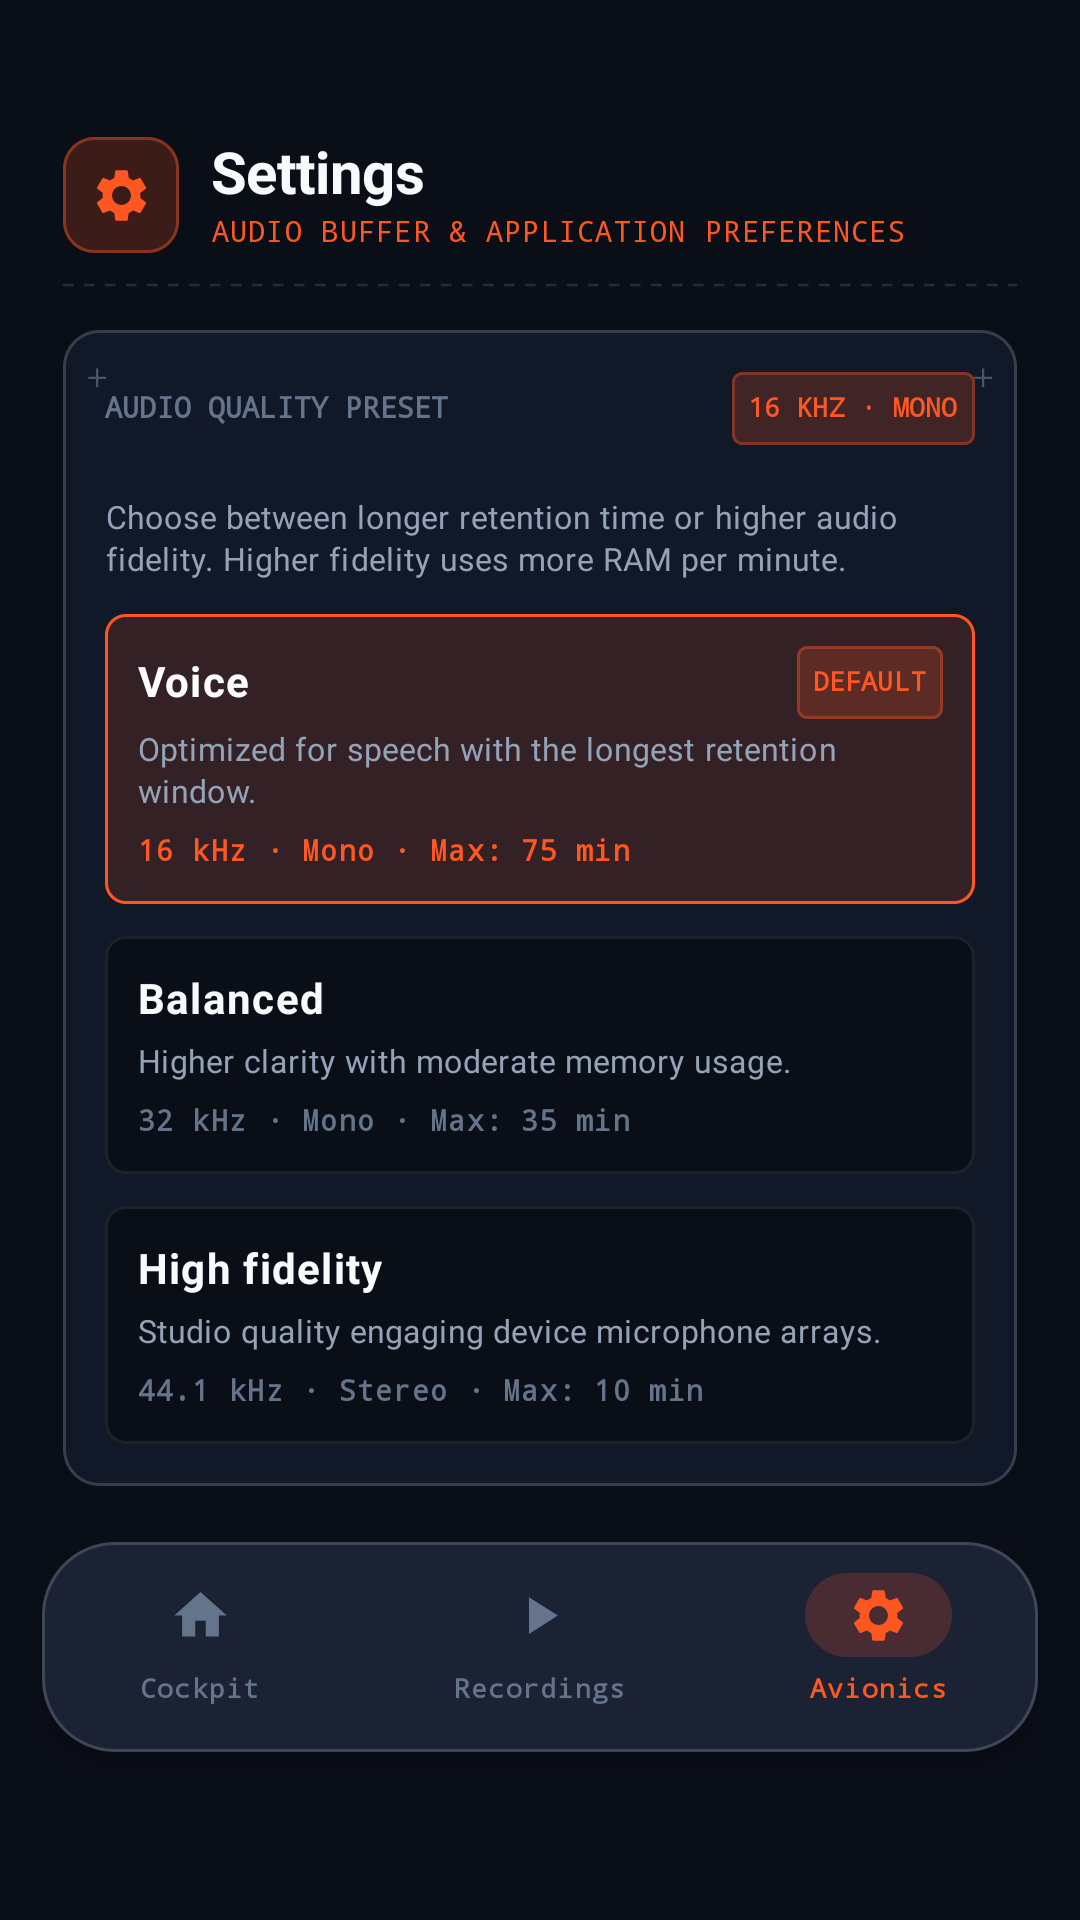
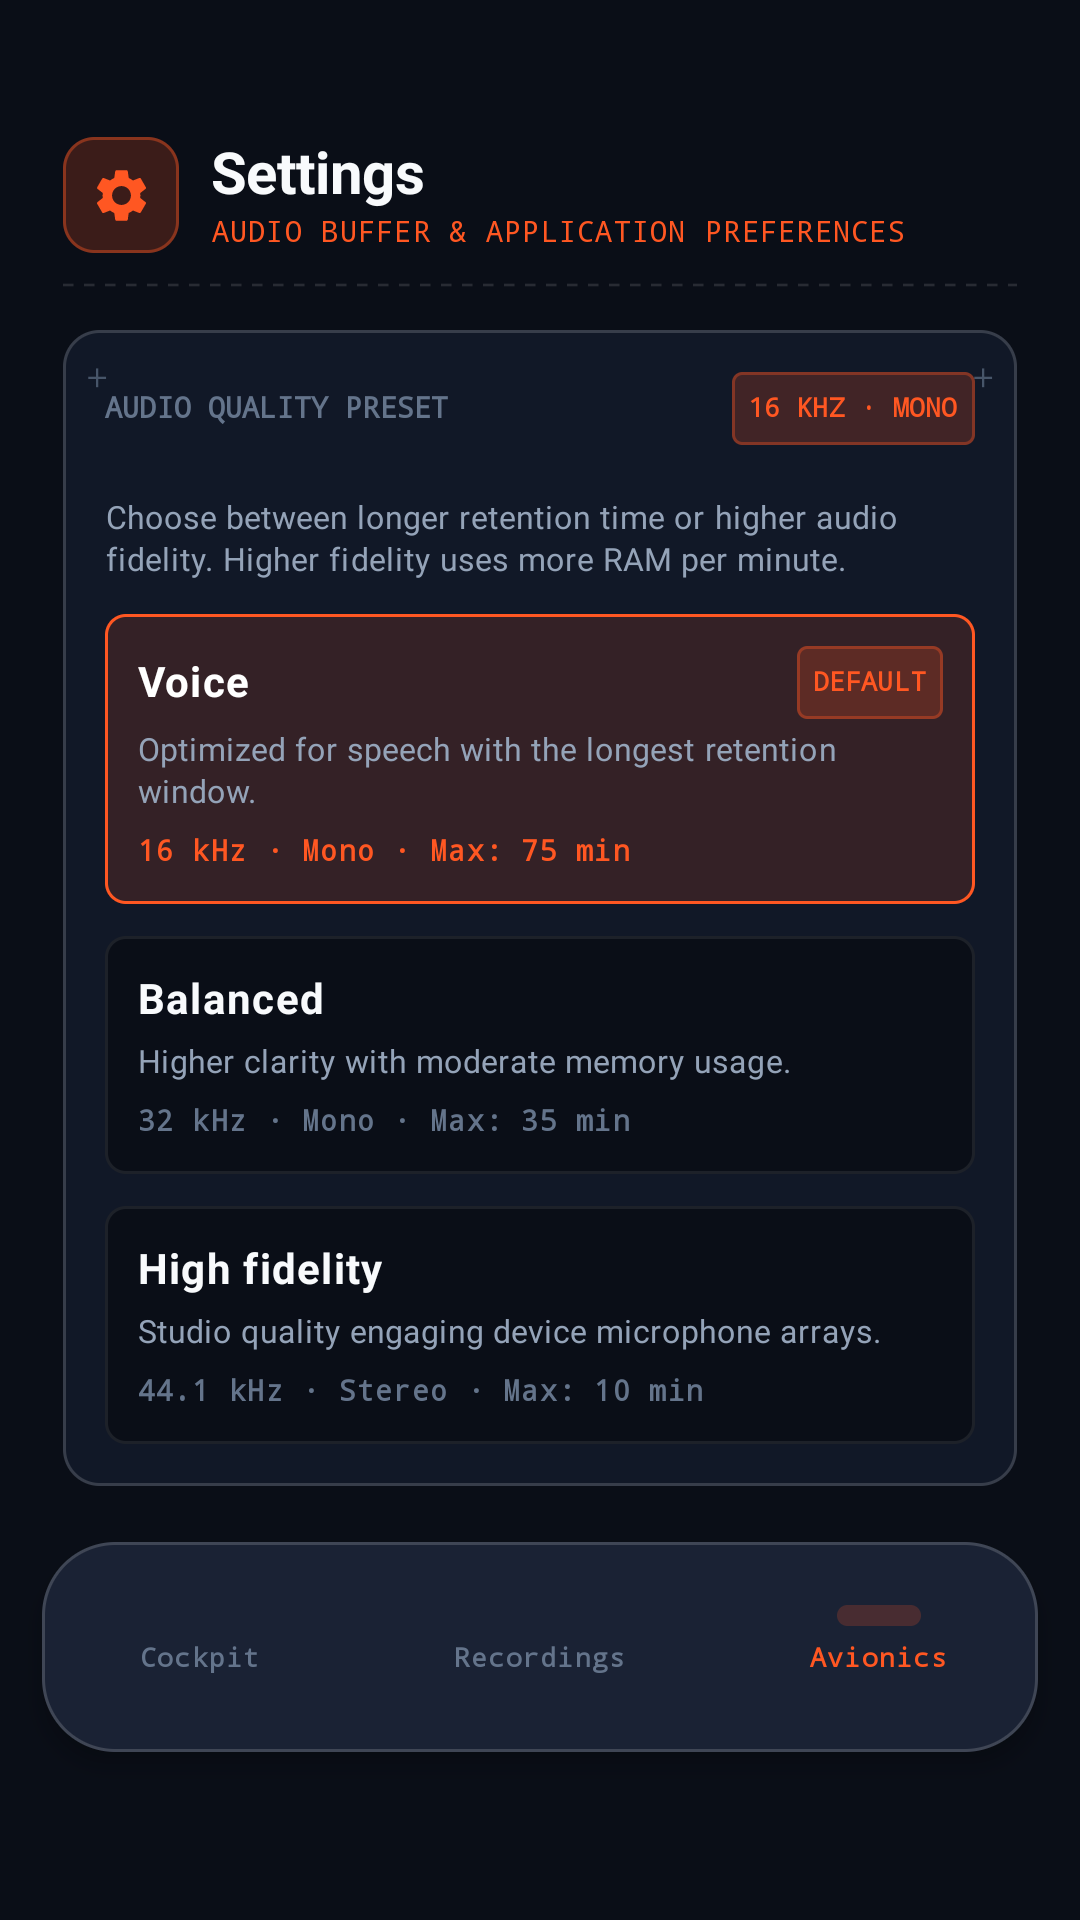
fix(ui): apply layout and design improvements (#356)
* fix(ui): apply layout and design improvements (fixes #353, #354, #355)

- Remove extra icon from telemetry card title and display device model in tag.
- Fix layout overflow in privacy card.
- Remove undocumented icons from main navigation tabs.

* chore(ci): refresh screenshots from capture run 34229181536

* Fix UI improvements review findings

* chore(ci): refresh screenshots from capture run 34233016166

* UI: use AvionicsTag's ellipsis instead of manual string truncation for device model

---------

Changed region(s): [[0.7333, 0.8125, 0.8861, 0.9062], [0.4278, 0.8125, 0.5806, 0.9062], [0.1528, 0.8125, 0.2139, 0.9062]]

diff --git a/app/src/main/java/cc/machado/audioblackbox/ui/BottomBar.kt b/app/src/main/java/cc/machado/audioblackbox/ui/BottomBar.kt
@@ -3,11 +3,6 @@ package cc.machado.audioblackbox.ui
 import androidx.compose.foundation.BorderStroke
 import androidx.compose.foundation.layout.WindowInsets
 import androidx.compose.foundation.shape.RoundedCornerShape
-import androidx.compose.material.icons.Icons
-import androidx.compose.material.icons.filled.Home
-import androidx.compose.material.icons.filled.PlayArrow
-import androidx.compose.material.icons.filled.Settings
-import androidx.compose.material3.Icon
 import androidx.compose.material3.MaterialTheme
 import androidx.compose.material3.NavigationBar
 import androidx.compose.material3.NavigationBarItem
@@ -105,7 +100,7 @@ fun FloatingBottomBar(
             NavigationBarItem(
                 selected = selected == Destination.DASHBOARD,
                 onClick = { onSelect(Destination.DASHBOARD) },
-                icon = { Icon(imageVector = Icons.Filled.Home, contentDescription = null) },
+                icon = {},
                 label = {
                     Text(
                         text = stringResource(R.string.nav_dashboard_label),
@@ -119,7 +114,7 @@ fun FloatingBottomBar(
             NavigationBarItem(
                 selected = selected == Destination.GALLERY,
                 onClick = { onSelect(Destination.GALLERY) },
-                icon = { Icon(imageVector = Icons.Filled.PlayArrow, contentDescription = null) },
+                icon = {},
                 label = {
                     Text(
                         text = stringResource(R.string.nav_gallery_label),
@@ -133,7 +128,7 @@ fun FloatingBottomBar(
             NavigationBarItem(
                 selected = selected == Destination.SETTINGS,
                 onClick = { onSelect(Destination.SETTINGS) },
-                icon = { Icon(imageVector = Icons.Filled.Settings, contentDescription = null) },
+                icon = {},
                 label = {
                     Text(
                         text = stringResource(R.string.nav_settings_label),

diff --git a/app/src/main/java/cc/machado/audioblackbox/ui/settings/SettingsScreen.kt b/app/src/main/java/cc/machado/audioblackbox/ui/settings/SettingsScreen.kt
@@ -449,7 +449,7 @@ private fun ConsumptionTelemetrySection(telemetry: PowerTelemetryUiState) {
                 label = stringResource(R.string.settings_card_telemetry_label),
                 tag = {
                     AvionicsTag(
-                        text = stringResource(R.string.settings_tag_live),
+                        text = android.os.Build.MODEL,
                         color = AvionicsGreen,
                         containerColor = AvionicsGreen.copy(alpha = 0.15f),
                         borderColor = AvionicsGreen.copy(alpha = 0.4f),
@@ -548,12 +548,11 @@ private fun PrivacySection(
                 color = MaterialTheme.colorScheme.onSurfaceVariant,
             )
             HorizontalDivider(color = CockpitBorder)
-            Row(
+            Column(
                 modifier = Modifier
                     .fillMaxWidth()
                     .clickable { uriHandler.openUri(productUrl) },
-                horizontalArrangement = Arrangement.SpaceBetween,
-                verticalAlignment = Alignment.CenterVertically,
+                verticalArrangement = Arrangement.spacedBy(4.dp),
             ) {
                 Text(
                     text = stringResource(R.string.settings_website_label),
@@ -569,10 +568,9 @@ private fun PrivacySection(
                 )
             }
             HorizontalDivider(color = CockpitBorder)
-            Row(
+            Column(
                 modifier = Modifier.fillMaxWidth(),
-                horizontalArrangement = Arrangement.SpaceBetween,
-                verticalAlignment = Alignment.CenterVertically,
+                verticalArrangement = Arrangement.spacedBy(4.dp),
             ) {
                 Text(
                     text = stringResource(R.string.settings_about_title),
